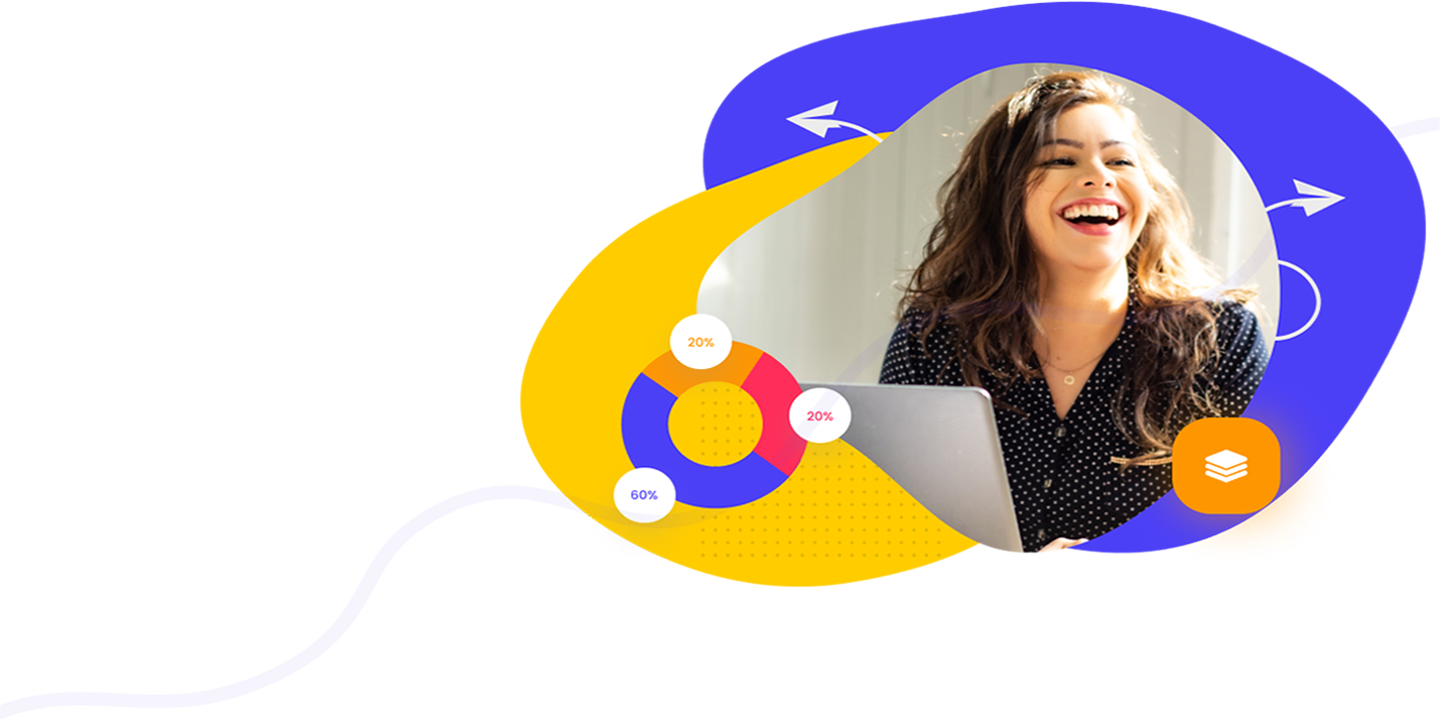
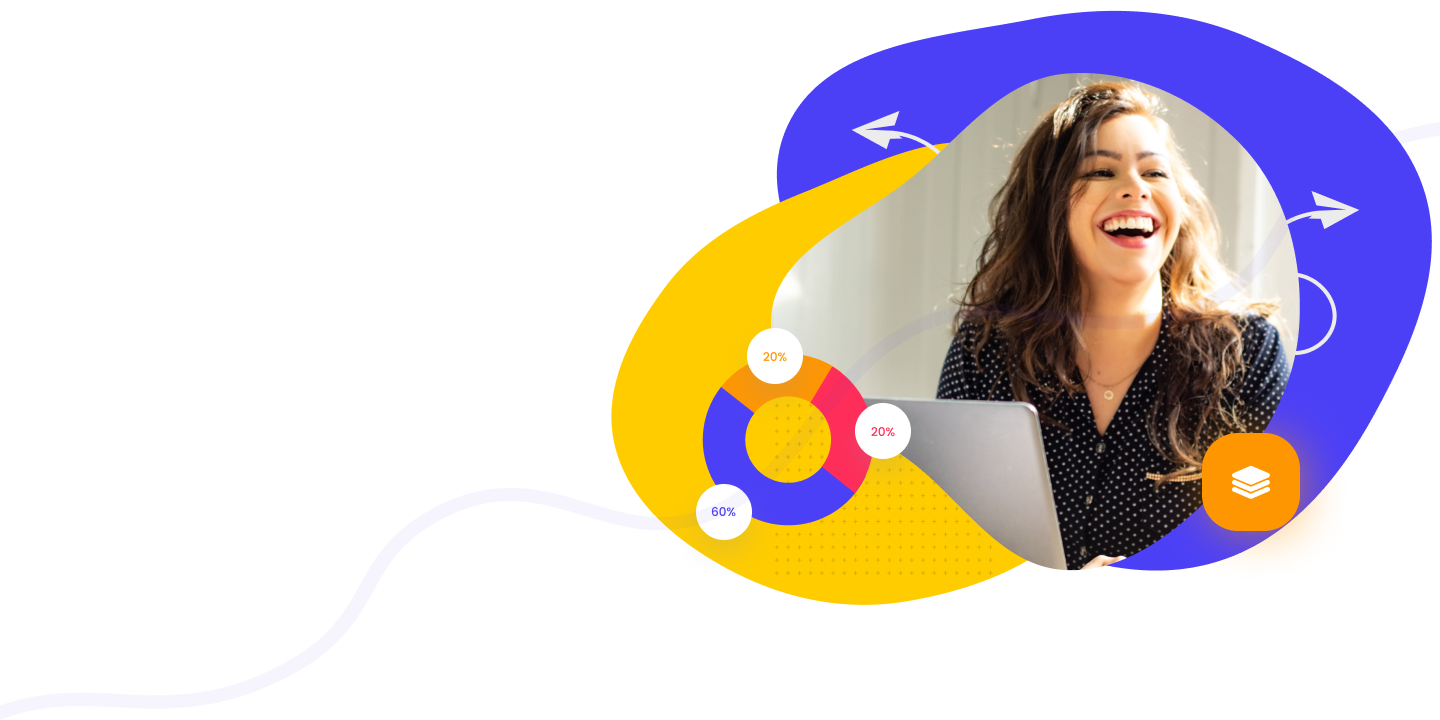
fix QA highlight issue

Changed region(s): [[0.3438, 0.0, 1.0, 0.8556]]

diff --git a/src/pages/index.js b/src/pages/index.js
@@ -68,16 +68,17 @@ const Home = () => {
         <div className="absolute right-0 w-fit -z-40 invisible lg:visible">
           <Image src={bgHeroSec} alt="bgHeroSec" />
         </div>
-        <div className="container mx-auto">
-          <div className="grid grid-cols-1 lg:grid-cols-2 px-3">
+        <div className="mx-[24px] lg:mx-[80px]  xl:mx-[160px]">
+          <div className="grid grid-cols-1 lg:grid-cols-2">
             <div className="space-y-6 xl:mt-28 my-20 dark:text-white">
-              <h1 className="text-4xl tracking-[-2.5px] lg:max-w-[570px] xl:text-6xl lg:text-[56px] lg:leading-[72px] font-semibold">
+              <h1 className="text-3xl md:text-[42px] md:leading-[52px] xl:text-[56px] xl:leading-[72px]
+               tracking-[-.8px] font-semibold">
                 Make your business
                 <span className="text-exact-orange dark:text-exact-yellow">
                   {" "}
                   more powerful{" "}
                 </span>
-                <br />
+               <br/>
                 with us
               </h1>
               <p className="text-lg leading-[32px] lg:max-w-[365px] font-normal text-exact-gray">
@@ -99,8 +100,8 @@ const Home = () => {
                 </span>
               </button>
             </div>
-            <div className="order-first lg:order-none">
-              <Image src={heroImage} className="lg:invisible" alt="heroImage" />
+            <div className="order-first lg:order-none w-full">
+              <Image src={heroImage} className="lg:invisible w-full" alt="heroImage" />
             </div>
           </div>
         </div>
@@ -113,12 +114,12 @@ const Home = () => {
         <div className="absolute right-0 -z-40 -bottom-56 invisible lg:visible">
           <Image src={bgService} alt="bgService" className="z-40" />
         </div>
-        <div className={`container mx-auto`}>
+        <div className={`mx-[24px] lg:mx-[80px]  xl:mx-[160px]`}>
           <SectionHeader
             title="Our Services"
             heading="The various services we provide to make your business more powerful"
           />
-          <div className="serviceCard grid grid-cols-1 md:grid-cols-2 lg:grid-cols-3 justify-center text-center gap-x-8 gap-y-[60px] px-3">
+          <div className="serviceCard grid grid-cols-1 md:grid-cols-2 lg:grid-cols-3 justify-center text-center gap-x-8 gap-y-[60px]">
             {serviceCardData.map((cardData, index) => {
               const { svgIcon, title, desc, exactColor } = cardData;
               const isStylish = stylish === index;
@@ -151,14 +152,14 @@ const Home = () => {
                     </div>
                     <div className="info space-y-4">
                       <h3
-                        className={`dark:text-white text-xl font-semibold ${
+                        className={`dark:text-white text-xl lg:text-lg xl:text-xl font-semibold ${
                           isStylish ? "text-white" : "text-black"
                         }`}
                       >
                         {title}
                       </h3>
                       <p
-                        className={`dark:text-white lg:max-w-[292px] text-lg leading-[32px] font-normal ${
+                        className={`dark:text-white lg:max-w-[292px] text-lg leading-[32px] lg:text-base xl:text-lg xl:leading-[32px] font-normal ${
                           isStylish
                             ? "text-white"
                             : "text-[#6B6B6B]                          "
@@ -197,16 +198,16 @@ const Home = () => {
       </div>
       {/* Documentation section */}
 
-      <div className={`docSec container mx-auto`}>
+      <div className={`docSec mx-[24px] lg:mx-[80px]  xl:mx-[160px]`}>
         <SectionHeader
           title="Our Documentation"
           heading="See what our profile is like and how we work for your business"
         />
       </div>
       <div
-        className={`ratingCard ${styles.bgDocSec} grid grid-cols-1 justify-center px-3`}
+        className={`videoSlideSec ${styles.bgDocSec} grid grid-cols-1 justify-center px-3`}
       >
-        <div className="flex justify-center container mx-auto">
+        <div className="flex justify-center mx-[24px] lg:mx-[80px]  xl:mx-[160px]">
           {thumnail ? (
             <div className="cursor-pointer" onClick={() => setThumnail(false)}>
               <Image src={thumnailImg} alt="image not found" width={15000} />
@@ -224,12 +225,12 @@ const Home = () => {
         </div>
       </div>
 
-      {/* Customer section */}
-      <div className="customerSec mb-[100px] lg:mb-[200px] bg-[#F9F9FD] dark:bg-[#020E2D] py-24">
+      {/* Documentation worth section */}
+      <div className="worthSec mb-[100px] lg:mb-[200px] bg-[#F9F9FD] dark:bg-[#020E2D] py-24">
         <div
-          className={`container mx-auto gap-10 grid grid-col-1 lg:grid-cols-2 justify-center items-center`}
+          className={`mx-[24px] lg:mx-[80px]  xl:mx-[160px] gap-10 grid grid-col-1 lg:grid-cols-2 justify-center items-center`}
         >
-          <div className="grid mx-3 grid-cols-1 md:grid-cols-2 gap-10 justify-center">
+          <div className="grid  grid-cols-1 md:grid-cols-2 gap-10 justify-center">
             <div className="grid gap-10 md:mt-12">
               <CustomerCard
                 title="70K+"
@@ -256,7 +257,7 @@ const Home = () => {
             </div>
           </div>
           <div className="grid justify-center lg:justify-end">
-            <div className="space-y-9 max-w-[460px] mx-3">
+            <div className="space-y-9 max-w-[460px] ">
               <h1 className="text-3xl text-[#111029] dark:text-white md:text-5xl lg:text-[56px] lg:leading-[72px] font-semibold">
                 Customer satisfaction is our first priority
               </h1>
@@ -294,14 +295,14 @@ const Home = () => {
           className="w-full absolute -z-40 -bottom-80
           "
         />
-        <div className={`container mx-auto`}>
+        <div className={`mx-[24px] lg:mx-[80px]  xl:mx-[160px]`}>
           <SectionHeader
             title="Working space"
             heading="Let’s meet our interior room decoration"
           />
         </div>
-        <div className={`mx-3 mt-10`}>
-          <div className="container mx-auto gap-8 grid grid-cols-1 md:grid-cols-3">
+        <div className={` mt-10`}>
+          <div className="mx-[24px] lg:mx-[80px]  xl:mx-[160px] gap-8 grid grid-cols-1 md:grid-cols-3">
             <div className="space-y-8">
               <Image
                 src={roomImage1}
@@ -342,14 +343,14 @@ const Home = () => {
         </div>
       </div>
       {/* Customer section */}
-      <div className={`customersSec container mx-auto`}>
+      <div className={`customersSec mx-[24px] lg:mx-[80px]  xl:mx-[160px]`}>
         <SectionHeader
           title="Some of Our Great Customers"
           heading="Some of the companies we have worked with"
         />
         <div className=" md:pt-10 pb-20 lg:pb-[200px] space-y-11">
           <div
-            className="grid grid-cols-1 md:grid-cols-3 md:-mt-20 lg:-mt-10 lg:grid-cols-5 sm:justify-between mx-3 
+            className="grid grid-cols-1 md:grid-cols-3 md:-mt-20 lg:-mt-10 lg:grid-cols-5 sm:justify-between  
             justify-around
        lg:gap-y-[60px] lg:gap-x-20 md:gap-x-36 gap-x-auto
            space-y-11 lg:space-y-0"
@@ -392,7 +393,7 @@ const Home = () => {
       </div>
       {/* FAQ section */}
       <div className={`customersSec bg-top ${styles.bgFAQsec}`}>
-        <div className={`container  mx-auto lg:pt-[200px] pt-[100px]`}>
+        <div className={`mx-[24px] lg:mx-[80px] xl:mx-[160px] lg:pt-[200px] pt-[100px]`}>
           <SectionHeader
             title="Frequently Ask Question"
             heading="Some of our frequently asked questions"
@@ -404,7 +405,7 @@ const Home = () => {
                 : isActive.length == 0
                 ? "lg:pb-[300px]"
                 : "lg:pb-[200px]"
-            } px-2 space-y-8`}
+            }  space-y-8`}
           >
             {faqContent.map((item, index) => {
               return (
@@ -447,34 +448,34 @@ const Home = () => {
         </div>
       </div>
 
-      {/* Testimonials section */}
+      {/* Testimonial section */}
       <div
-        className={`testimonialSec px-2 py-[100px] dark:bg-[#020E2D] bg-[#F9F9FD]`}
+        className={`testimonialSec py-[100px] dark:bg-[#020E2D] bg-[#F9F9FD]`}
       >
-        <div className={`container mx-auto `}>
+        <div className={`mx-[24px] lg:mx-[80px]  xl:mx-[160px]`}>
           <SectionHeader
             title="Testimonials"
             heading="Some testimonials from our customers"
           />
-          <div className={`grid grid-cols-1 lg:grid-cols-3 gap-[60px]`}>
+          <div className={`grid grid-cols-1 md:grid-cols-2 lg:grid-cols-3 gap-8`}>
             {testimonialsData.map((item, index) => {
               const { imgURL, name, company, desc, rating } = item;
               const items = [];
               for (let i = 0; i < rating; i++) {
                 items.push(
                   <div key={i}>
-                    <Image src={ratingStar} alt="star" className="w-4 h-4" />
+                    <Image src={ratingStar} alt="star" className="w-4 lg:w-3 xl:w-4 h-4 lg:h-3 xl:h-4" />
                   </div>
                 );
               }
               return (
                 <div
-                  className="pt-14"
+                  className="pt-14 flex justify-center"
                   onMouseEnter={() => setTestimonialStyle(index)}
                   key={index} // add key prop here
                 >
                   <div
-                    className={`tesimonialCard flex text-center flex-col items-center px-8 pb-11 scroll-pt-6 rounded-[20px] shadow-xl shadow- ${
+                    className={`tesimonialCard flex text-center max-w-[352px] flex-col items-center px-8 pb-11 scroll-pt-6 rounded-[20px] shadow-xl shadow- ${
                       testimonialStyle === index
                         ? "shadow-exact-purple/25"
                         : null
@@ -491,12 +492,12 @@ const Home = () => {
                       } `}
                     />
                     <div className="flex flex-col dark:text-white space-y-2 items-center">
-                      <h1 className="text-2xl">{name}</h1>
+                      <h1 className="text-2xl lg:text-lg xl:text-2xl font-semibold">{name}</h1>
                       <strong className="text-base font-medium dark:text-white text-[#ABAFC7]">
                         {company}
                       </strong>
                     </div>
-                    <p className="text-lg font-normal dark:text-white text-[#70798B]">
+                    <p className="text-lg leading-[32px] lg:text-base xl:text-lg xl:leading-[32px] font-normal dark:text-white text-[#70798B]">
                       {desc}
                     </p>
                     <div className="rating flex space-x-2.5">{items}</div>

diff --git a/src/components/footer/Footer.js b/src/components/footer/Footer.js
@@ -25,10 +25,10 @@ const Footer = () => {
           alt="curve"
           className="w-full absolute bottom-5 -z-40"
         />
-        <div className="container mx-auto py-24 lg:py-[200px]">
-          <div className="rounded-[20px] mx-3 text-white bg-exact-yellow text-center py-16">
-            <p className="pb-4 text-base font-medium">Are You Ready For</p>
-            <h1 className="pb-8 text-[42px]">Start a New Project</h1>
+        <div className="mx-[24px] lg:mx-[80px] xl:mx-[160px] py-[100px] lg:py-[200px]">
+          <div className="rounded-[20px] text-white bg-exact-yellow text-center pt-16 pb-[84px]">
+            <p className="pb-2 md:pb-3 xl:pb-4 text-sm md:text-base font-medium">Are You Ready For</p>
+            <h1 className="pb-4 md:pb-6 xl:pb-8 text-[21px] md:text-8 xl:text-[42px] leading-7 xl:leading-[56px] font-semibold">Start a New Project</h1>
             <div className="flex justify-center">
               <button
                 className={`shadow-2xl shadow-exact-red/50 md:max-w-fit py-[19px] px-[42.5px] bg-[#4C40F7] rounded-xl `}
@@ -50,26 +50,26 @@ const Footer = () => {
 
         {/* Footer core section */}
         <div className="bg-[#00113B] mt-40">
-          <div className="container text-white mx-auto relative pt-40">
+          <div className="mx-[24px] lg:mx-[80px] xl:mx-[160px] text-white relative pt-40">
             {/* Subscribe section */}
             <div className="w-full mx-auto absolute -top-40">
-              <div className="text-center mx-3 rounded-[20px]  bg-[#4C40F7] py-16">
-                <p className="pb-4 text-base font-medium">
+              <div className="text-center rounded-[20px]  bg-[#4C40F7] pt-[60px] pb-[80px]">
+                <p className="pb-2 md:pb-3 xl:pb-4 text-sm md:text-base font-medium">
                   Get Notified About Project
                 </p>
-                <h1 className="pb-8 text-[42px]">Subscribe Now</h1>
+                <h1 className="pb-4 md:pb-6 xl:pb-8 text-[21px] md:text-8 xl:text-[42px] leading-7 xl:leading-[56px] font-semibold">Subscribe Now</h1>
                 <div className="flex justify-center">
                   <div className="flex justify-center text-black/75 items-center w-fit relative">
                     <input
                       type="email"
                       placeholder="Email"
                       maxLength={100}
-                      className="py-5 pl-7 pr-14 rounded-[11px] text-lg sm:w-[500px] w-full mx-3"
+                      className="py-5 pl-7 pr-14 rounded-[11px] text-lg leading-[32px] font-normal mx-5 md:w-[500px] w-full "
                     />
                     <Image
                       src={sendIcon}
                       alt="send-icon"
-                      className="w-[19px] h-[18px] absolute right-7"
+                      className="w-[19px] h-[18px] absolute right-12"
                     />
                   </div>
                 </div>
@@ -77,7 +77,7 @@ const Footer = () => {
             </div>
 
             {/* map section */}
-            <div className="grid grid-cols-1 space-y-8 mx-3 gap-x-16 justify-between lg:grid-cols-10 mt-20 pb-16">
+            <div className="grid grid-cols-1 space-y-8  gap-x-16 justify-between lg:grid-cols-10 mt-20 pb-16">
               <div className="col-span-4 space-y-8">
                 <div className="p-3 w-12 bg-exact-purple rounded-lg shadow-[-5px_10px_30px_rgba(76,64,247,0.5)]">
                   <Image
@@ -117,7 +117,7 @@ const Footer = () => {
             {/* emty div for underliene */}
             <div className="border-[1px] mb-16 lg:mb-8"></div>
             {/* copy right section */}
-            <div className="flex lg:flex-row mx-3 space-y-8  flex-col justify-center lg:justify-between pb-[68px] text-base font-medium items-center">
+            <div className="flex lg:flex-row  space-y-8  flex-col justify-center lg:justify-between pb-[68px] text-base font-medium items-center">
               <p className="lg:mt-5">© 2021 Creative Agency</p>
               <ul className="flex space-x-4 lg:space-x-9">
                 <li>

diff --git a/src/components/navbar/Navbar.js b/src/components/navbar/Navbar.js
@@ -32,17 +32,17 @@ const Navbar = () => {
         }`}
       >
         <nav
-          className={`container p-4 mx-auto flex flex-col md:flex-row justify-between items-center ${
-            !openMenu ? "h-20" : "h-screen"
-          } md:h-32`}
+          className={`mt-[24px] md:mt-[0px] mx-[24px] lg:mx-[80px]  xl:mx-[160px] flex flex-col md:flex-row justify-between items-center ${
+            !openMenu ? "h-[160px]" : "h-screen"
+          } `}
         >
           <div
             className={`flex w-full md:max-w-fit justify-between items-center ${
               openMenu ? "border-b-2" : "border-none"
             } border-black/25 dark:border-white pb-4 md:border-none `}
           >
-            <div className="p-3 mt-1 md:mt-4 bg-exact-purple rounded-lg shadow-[-5px_10px_30px_rgba(76,64,247,0.5)]">
-              <Image src={logo} alt="Logo" width={20} height={20} />
+            <div className="p-[14px] mt-1 md:mt-4 bg-[#4C40F7] rounded-lg shadow-[-5px_10px_30px_rgba(76,64,247,0.5)]">
+              <Image src={logo} alt="Logo" className="w-[20px] h-[20px]"/>
             </div>
 
             <div

diff --git a/src/components/customer-card/CustomerCard.js b/src/components/customer-card/CustomerCard.js
@@ -3,10 +3,10 @@ import React from "react";
 const CustomerCard = (props) => {
   return (
     <div className="card rounded-[20px] py-[72px] space-y-5 px-7 text-center dark:bg-[#4C40F7] bg-white">
-      <h2 className={`text-[56px] leading-[72px] font-semibold ${props.color}`}>
-        {props.title}
+      <h2 className={`text-[56px] lg:text-4xl xl:text-[56px] leading-[72px] xl:leading-[72px] font-semibold ${props.color}`}>
+        {props.title} 
       </h2>
-      <p className="text-lg leading-[32px] font-normal dark:text-[#FFFFFF] text-[#111029]">
+      <p className="text-lg leading-[32px] lg:text-base xl:text-lg xl:leading-[32px] font-normal dark:text-[#FFFFFF] text-[#111029]">
         {props.desc}
       </p>
     </div>

diff --git a/src/components/sectionHeader/SectionHeading.js b/src/components/sectionHeader/SectionHeading.js
@@ -6,7 +6,8 @@ const SectionHeader = (props) => {
       <h6 className="text-[#FF2D59] text-center text-xl font-semibold">
         {props.title}
       </h6>
-      <h3 className="text-center text-[#111029] dark:text-white lg:text-[42px] text-xl tracking-[-1px] md:text-2xl font-semibold lg:leading-[56px]">
+      <h3 className="text-center text-[#111029] dark:text-white text-xl md:text-2xl lg:text-4xl xl:text-[42px]
+       px-1 tracking-[-0.1px]  font-semibold lg:leading-[56px]">
         {props.heading}
       </h3>
     </div>

diff --git a/src/components/costomer-slide/CustomerSlide.js b/src/components/costomer-slide/CustomerSlide.js
@@ -9,7 +9,7 @@ const CustomerSlide = (props) => {
         <Image src={quotationMarks} alt="quoteMark"/>
       </div>
       <div className="grid justify-center">
-        <p className="text-[28px] leading-10 font-normal text-white px-10 lg:w-[723px] md:text-2xl lg:text-3xl  text-center">
+        <p className="text-lg md:text-2xl xl:text-[28px] xl:leading-10 font-normal text-white px-10 lg:w-[723px] text-center">
           {desc}
         </p>
       </div>

diff --git a/src/components/swiper-slider/SwiperSlider.js b/src/components/swiper-slider/SwiperSlider.js
@@ -8,7 +8,7 @@ import CustomerSlide from "../costomer-slide/CustomerSlide";
 export default function SwiperSlider() {
   return (
     <>
-      <div className="relative container mx-auto">
+      <div className="relative mx-[24px] lg:mx-[80px]  xl:mx-[160px]">
         <Swiper
           slidesPerView={1}
           spaceBetween={30}
